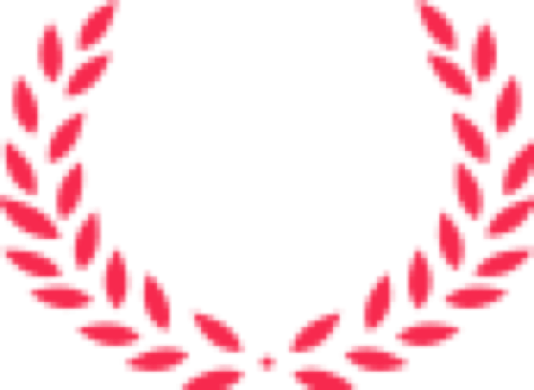
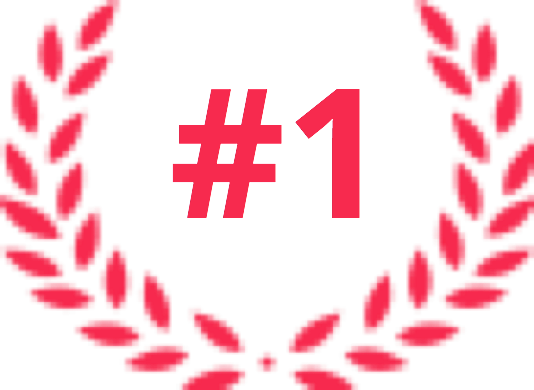
refactoring + fixed transform rotation

Changed region(s): [[0.2996, 0.2154, 0.6891, 0.5846]]

diff --git a/assets/css/style.css b/assets/css/style.css
@@ -284,34 +284,35 @@ p {
   margin: auto;
 }
 
-.right-dark.left-align {
-  display: inline-table;
-  color: #595959;
-  text-align: left;
-  margin: auto;
-  margin-bottom: 100px;
-  margin-top: 5px;
-  padding-left: 2%;
-}
-
 .grey .cesar {
   margin-top: -58px;
   font-size: 30px;
   width: 40px;
-  margin-left: 7%;
 }
 
 .grey .subtitle.no-margin {
   margin-bottom: 0;
 }
 
+.wide-native {
+  width: 49%;
+  margin: auto;
+}
+
+.icon-cesar {
+  width: 90px;
+  margin-left: 0;
+  display: inline-block;
+  margin-top: 30px;
+  margin-bottom: -8px;
+}
+
 .grey .cesar-sub {
+  display: inline-block;
   color: #595959;
-  margin-left: 110px;
-  margin-top: -29px;
   margin-bottom: 115px;
   text-align: left;
-  width: 170%;
+  padding-left: 2%;
 }
 
 .grey .cesar-sub a {
@@ -332,11 +333,12 @@ p {
   padding-left: 90px;
 }
 
-.icon.small {
+
+.icon-reach {
+  display: inline-block;
   width: 200px;
-  margin-top: -100px;
-  margin-left: 315px;
-  margin-bottom: 90px;
+  position: relative;
+  left: 5%;
 }
 
 .icon.heart {
@@ -357,16 +359,18 @@ p {
   margin: auto;
 }
 
-.reach {
+.reach-text {
   margin-top: 0;
-  margin-left: -35%;
+  display: inline-block;
 }
 
 .reach-sub {
+  display: block;
   color: #595959;
-  margin-bottom: 45px;
+  font-weight: 400;
+  font-size: 20px;
+  text-align: center;
   margin-top: 0;
-  width: 68%;
 }
 
 .grey .right {
@@ -471,7 +475,7 @@ h3 {
   margin-bottom: 90px;
   color: #595959;
   text-align: left;
-  width: 320px;
+  width: 300px;
   vertical-align: top;
 }
 
@@ -489,21 +493,24 @@ h3 {
 }
 
 .use-content {
-  width: 65%;
+  width: 80%;
   margin: auto;
 }
 
 .use-content .picture {
   display: inline-block;
-  width: 45%;
+  width: 375px;
   margin-top: 30px;
-  margin-right: 10%;
+  position: relative;
+  left: -5%;
 }
 
 .chart-big {
   display: inline-block;
-  width: 40%;
+  width: 400px;
   margin-top: 30px;
+  position: relative;
+  left: 5%;
 }
 
 .use-content a, .use-content a {
@@ -512,9 +519,22 @@ h3 {
   margin-bottom: 90px;
   color: #595959;
   margin-left: 0;
-  font-size: 15px;
-  margin-right: 11%;
+  position: relative;
+  left: -12%;
+  font-size: 14px;
   text-align: center;
+}
+
+.right-dark.left-align {
+  display: inline-table;
+  color: #595959;
+  text-align: left;
+  margin: auto;
+  margin-bottom: 100px;
+  margin-top: 5px;
+  padding-left: 2%;
+  position: relative;
+  left: -2%;
 }
 
 #contact a {
@@ -579,10 +599,6 @@ h3 {
     margin-left: -25%;
   }
 
-  .reach-sub {
-    width: 78%;
-  }
-
   .icon.small {
     margin-left: 55%;
   }
@@ -612,15 +628,7 @@ h3 {
   }
 
   .use-content a, .use-content a {
-    display: inline-block;
-    margin-top: 20px;
-    color: #595959;
-    margin-left: 0;
-    font-size: 15px;
-    margin-right: 11%;
-    text-align: center;
-    padding-left: 0;
-    margin-bottom: 100px;
+    left: -14%;
   }
 }
 
@@ -638,20 +646,22 @@ h3 {
     margin-bottom: 100px;
     font-size: 12px;
   }
-}
 
-@media (max-width: 1061px) {
-  .left .l .fat.white, .right .l .fat.white, .left .l .fat-sub, .right .l .fat-sub { 
-    margin-left: 15%;
+  .use-content .picture {
+    width: 380px;
   }
 
-  .grey .cesar {
-    margin-left: 10%;
+  .chart-big {
+    width: 350px;
+  }
+
+  .use-content a, .use-content a {
+    left: -12%;
   }
 }
 
 /* Mobile Devices */
-@media (max-width: 950px) {
+@media (max-width: 1065px) {
   header h1 {
     font-size: 25px;
     line-height: 30px;
@@ -671,6 +681,15 @@ h3 {
 
   h2 {
     font-size: 25px;
+  }
+
+  #container {
+    display: block;
+  }
+
+  .wide-native {
+    width: 49%;
+    margin: auto;
   }
 
   .subtitle {
@@ -707,14 +726,14 @@ h3 {
     margin-top: -57px;
   }
 
-  .reach {
+  .reach-text {
     margin-left: 0;
   }
 
   .reach-sub {
     width: auto;
-    padding-left: 2%;
-    margin-bottom: 100px;
+    padding-left: 0;
+    margin-bottom: 80px;
   }
 
   .grey.margin {
@@ -724,24 +743,31 @@ h3 {
   .grey .cesar-sub {
     width: auto;
     padding-left: 8%;
-    margin-top: 40px;
+    margin-top: 15px;
     margin-left: 0;
-    margin-bottom: 0;
+    margin-bottom: 40px;
     text-align: center;
   }
 
-  .grey .icon {
+  .grey .icon-cesar {
     margin: auto;
     margin-top: 40px;
   }
 
-  .grey .cesar {
-    width: auto;
-    margin-left: 0;
-  }
-
   .grey .cesar-sub a {
     font-size: 20px;
+  }
+
+  .icon-reach {
+    display: none;
+  }
+
+  .text-content {
+    width: 93%;
+  }
+
+  .text-content:nth-child(3) {
+    margin-bottom: 70px;
   }
 
   .icon-left {
@@ -751,6 +777,7 @@ h3 {
   }
 
   .icon.heart {
+    left: 0;
     margin: auto;
   }
 
@@ -801,6 +828,8 @@ h3 {
 
   .brace-img {
     transform: rotate(90deg);
+    -webkit-transform: rotate(90deg);
+    -ms-transform: rotate(90deg);     
     margin-top: -15px;
     width: 40px;
   }
@@ -859,12 +888,12 @@ h3 {
     margin-bottom: 10px;
   }
 
-  .left .picture {
+  .use-content .picture {
     padding-left: 0;
     width: 88%;
   }
 
-  .left a, .right a {
+  .use-content a, .use-content a {
     padding-left: 0;
     width: auto;
     margin: auto;

diff --git a/index.html b/index.html
@@ -62,19 +62,16 @@
 	<div class="box small"><span>Wildflame is tumblr NATIVE</span></div>
 	<section class="grey margin small">
 		<p class="subtitle no-margin" style="max-width: 840px;">Wildflame is #1 on Tumblr with its trending content curation and packaging. It has built a unique network of crowd influencers, the “power-peers”, that curate the best trending content provided by Wildflame.</p>
-
-		<div class="left">
-			<div class="l">
-				<img class="icon" src="assets/img/cesar.png">
-				<h2 class="cesar">#1</h2>
-				<p class="cesar-sub">Wildflame owns the biggest Tumblr in the world, <br> it's called <a href="http://sizvideos.tumblr.com" target="_blank">sizvideos</a></p>
+		<div class="wide-content">
+			<div class="wide-native" id="container">
+				<img class="icon-cesar" src="assets/img/cesar.png">
+				<p class="cesar-sub" style="max-width: 70%;">Wildflame owns the biggest Tumblr in the world, <br> it's called <a href="http://sizvideos.tumblr.com" target="_blank">sizvideos</a></p>
 			</div>
-		</div>
 
-		<div class="right">
-			<h2 class="reach fat">> 50M</h2>
-			<p class="reach-sub">monthly reach</p>
-			<img class="icon small" src="assets/img/reach.png">
+			<div class="wide-native" id="container">
+				<h2 class="reach-text fat">> 50M <br> <span class="reach-sub">monthly reach</span></h2>
+				<img class="icon-reach" src="assets/img/reach.png">
+			</div>
 		</div>
 	</section>
 	<div class="box"><span>The power of peers: <br>the need to target trusted relays</span></div>
@@ -155,24 +152,29 @@
 	</section>
 	<div class="box"><span>Use Case: <br> PUBLISHER POST (BUZZFEED)</span></div>
 	<section>
-		<div class="use-content">
-			<img class="picture" src="assets/img/tumblr.png">
-			<img class="chart-big" src="assets/img/reach-chart1.png">
-		</div>
-		<div class="use-content">
-			<a style="max-width: 380px; margin-top: 20px; margin-bottom: 90px;" href="http://sizvideos.tumblr.com/post/133338029994/watch-drunk-people-getting-surprised-by-puppies">http://sizvideos.tumblr.com/post/133338029994/watch-drunk-people-getting-surprised-by-puppies</a>
-
-			<p class="right-dark left-align"><span class="fat upper">514k </span>total reach <br> <span class="fat upper">12% </span>engagement <br> <span class="fat upper">4.6% </span>click-through rate</p>
+		<div class="wide-content">
+			<div class="use-content" id="container">
+				<img class="picture" src="assets/img/tumblr.png">
+				<img class="chart-big" src="assets/img/reach-chart1.png">
+			</div>
+			<div class="use-content" id="container">
+				<a style="max-width: 380px; margin-top: 20px; margin-bottom: 90px;" href="http://sizvideos.tumblr.com/post/133338029994/watch-drunk-people-getting-surprised-by-puppies">http://sizvideos.tumblr.com/post/133338029994/watch-drunk-people-getting-surprised-by-puppies</a>
+				<p class="right-dark left-align"><span class="fat upper">514k </span>total reach <br> <span class="fat upper">12% </span>engagement <br> <span class="fat upper">4.6% </span>click-through rate</p>
+			</div>
 		</div>
 	</section>
 	<div class="box"><span>Use Case: <br> BRAND POST (KICKSTARTER CAMPAIGN)</span></div>
 	<section>
-		<div class="use-content">
-			<img class="picture" src="assets/img/tumblr2.png">
-			<a style="max-width: 370px; margin-top: 20px; margin-bottom: 90px;" href="http://sizvideos.tumblr.com/post/133349499220/trackr-atlas-tells-you-which-room-your-belongings">http://sizvideos.tumblr.com/post/133349499220/trackr-atlas-tells-you-which-room-your-belongings</a>
+		<div class="wide-content">
+			<div class="use-content" id="container">
+				<img class="picture" src="assets/img/tumblr2.png">
+				<img class="chart-big" src="assets/img/reach-chart2.png">
+			</div>
 
-			<img class="chart-big" src="assets/img/reach-chart2.png">
-			<p class="right-dark left-align"><span class="fat upper">713k </span>total reach <br> <span class="fat upper">8% </span>engagement <br> <span class="fat upper">2.5% </span>click-through rate</p>
+			<div class="use-content" id="container">
+				<a style="max-width: 370px; margin-top: 20px; margin-bottom: 90px;" href="http://sizvideos.tumblr.com/post/133349499220/trackr-atlas-tells-you-which-room-your-belongings">http://sizvideos.tumblr.com/post/133349499220/trackr-atlas-tells-you-which-room-your-belongings</a>
+				<p class="right-dark left-align"><span class="fat upper">713k </span>total reach <br> <span class="fat upper">8% </span>engagement <br> <span class="fat upper">2.5% </span>click-through rate</p>
+			</div>
 		</div>
 	</section>
 	<div class="box small"><span>Want to know more ?</span></div>
